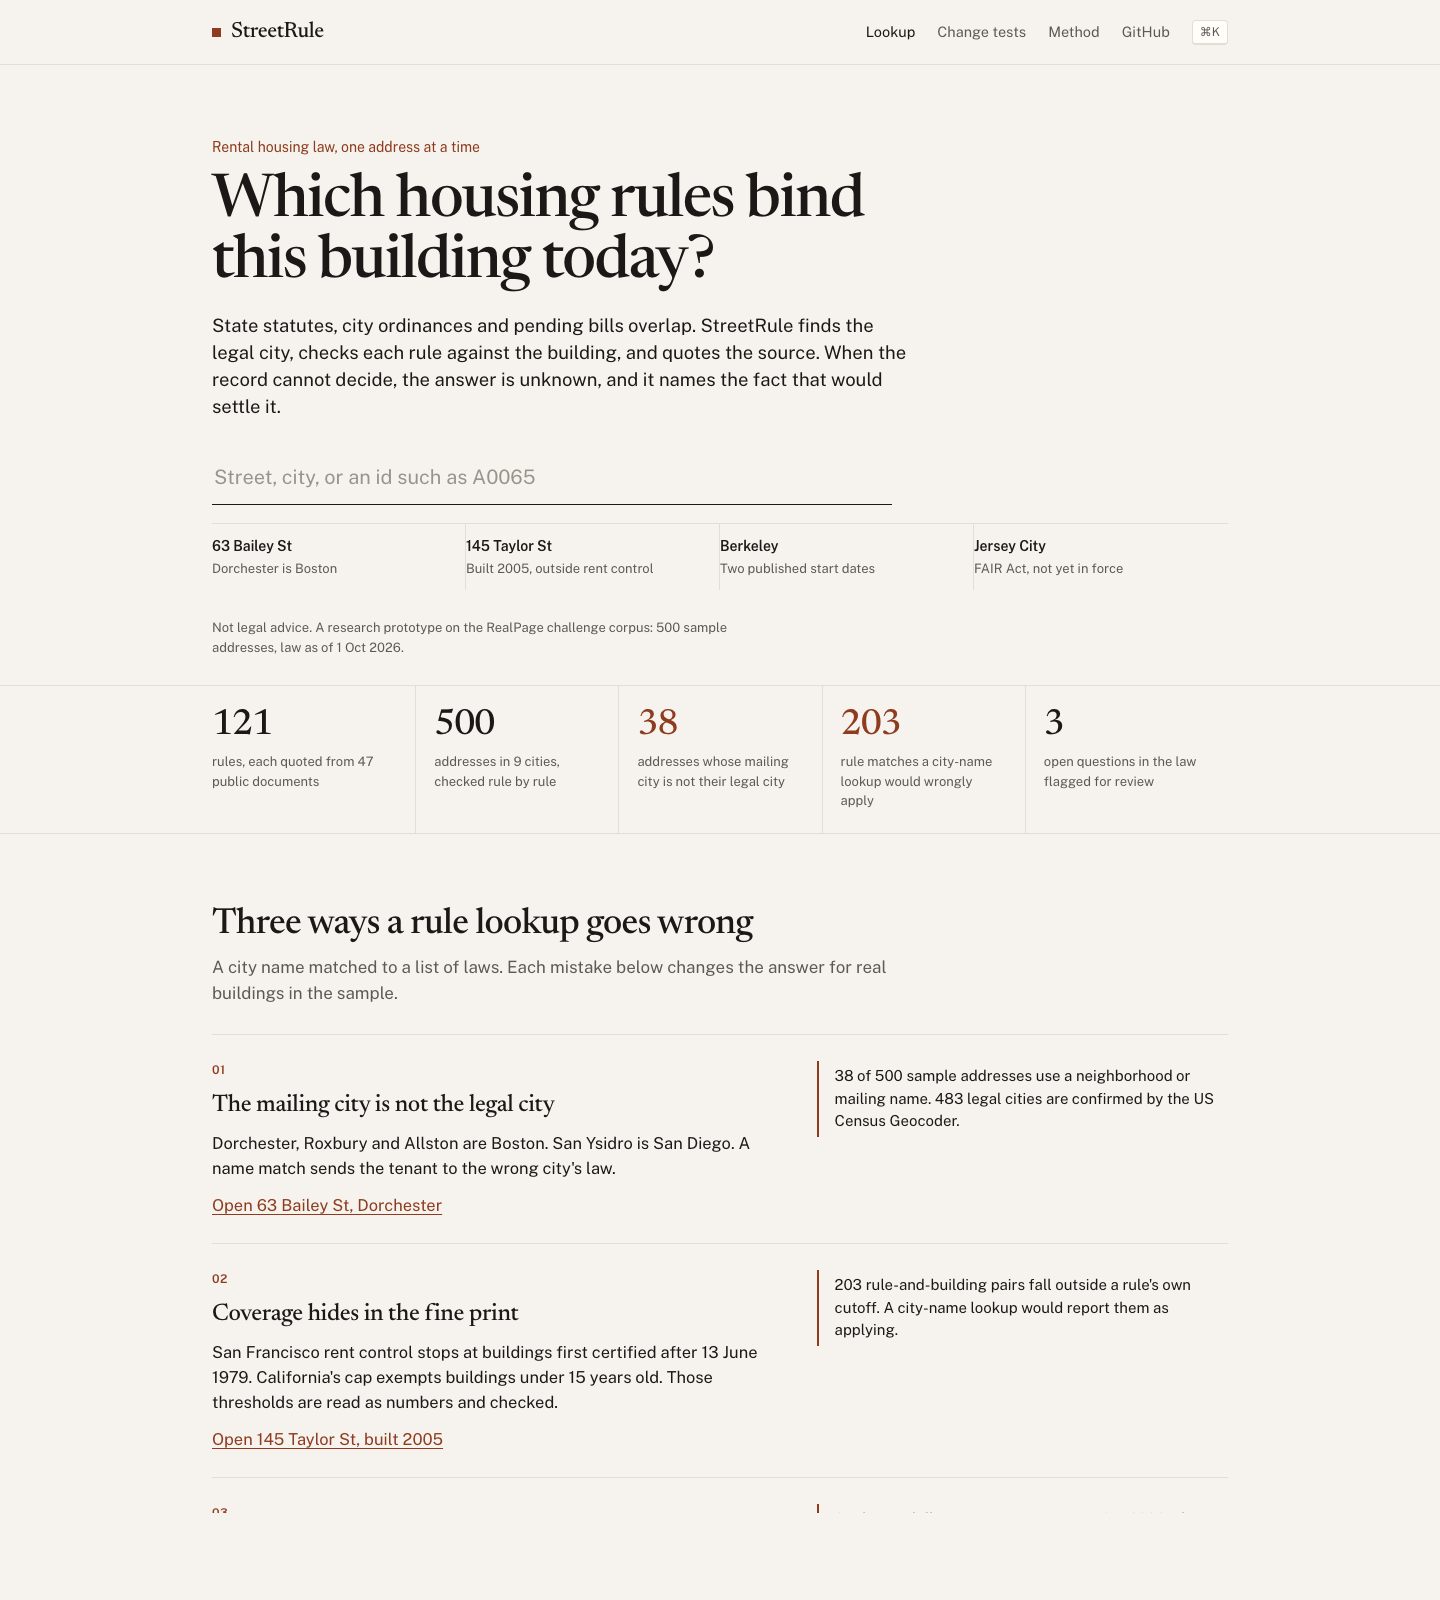
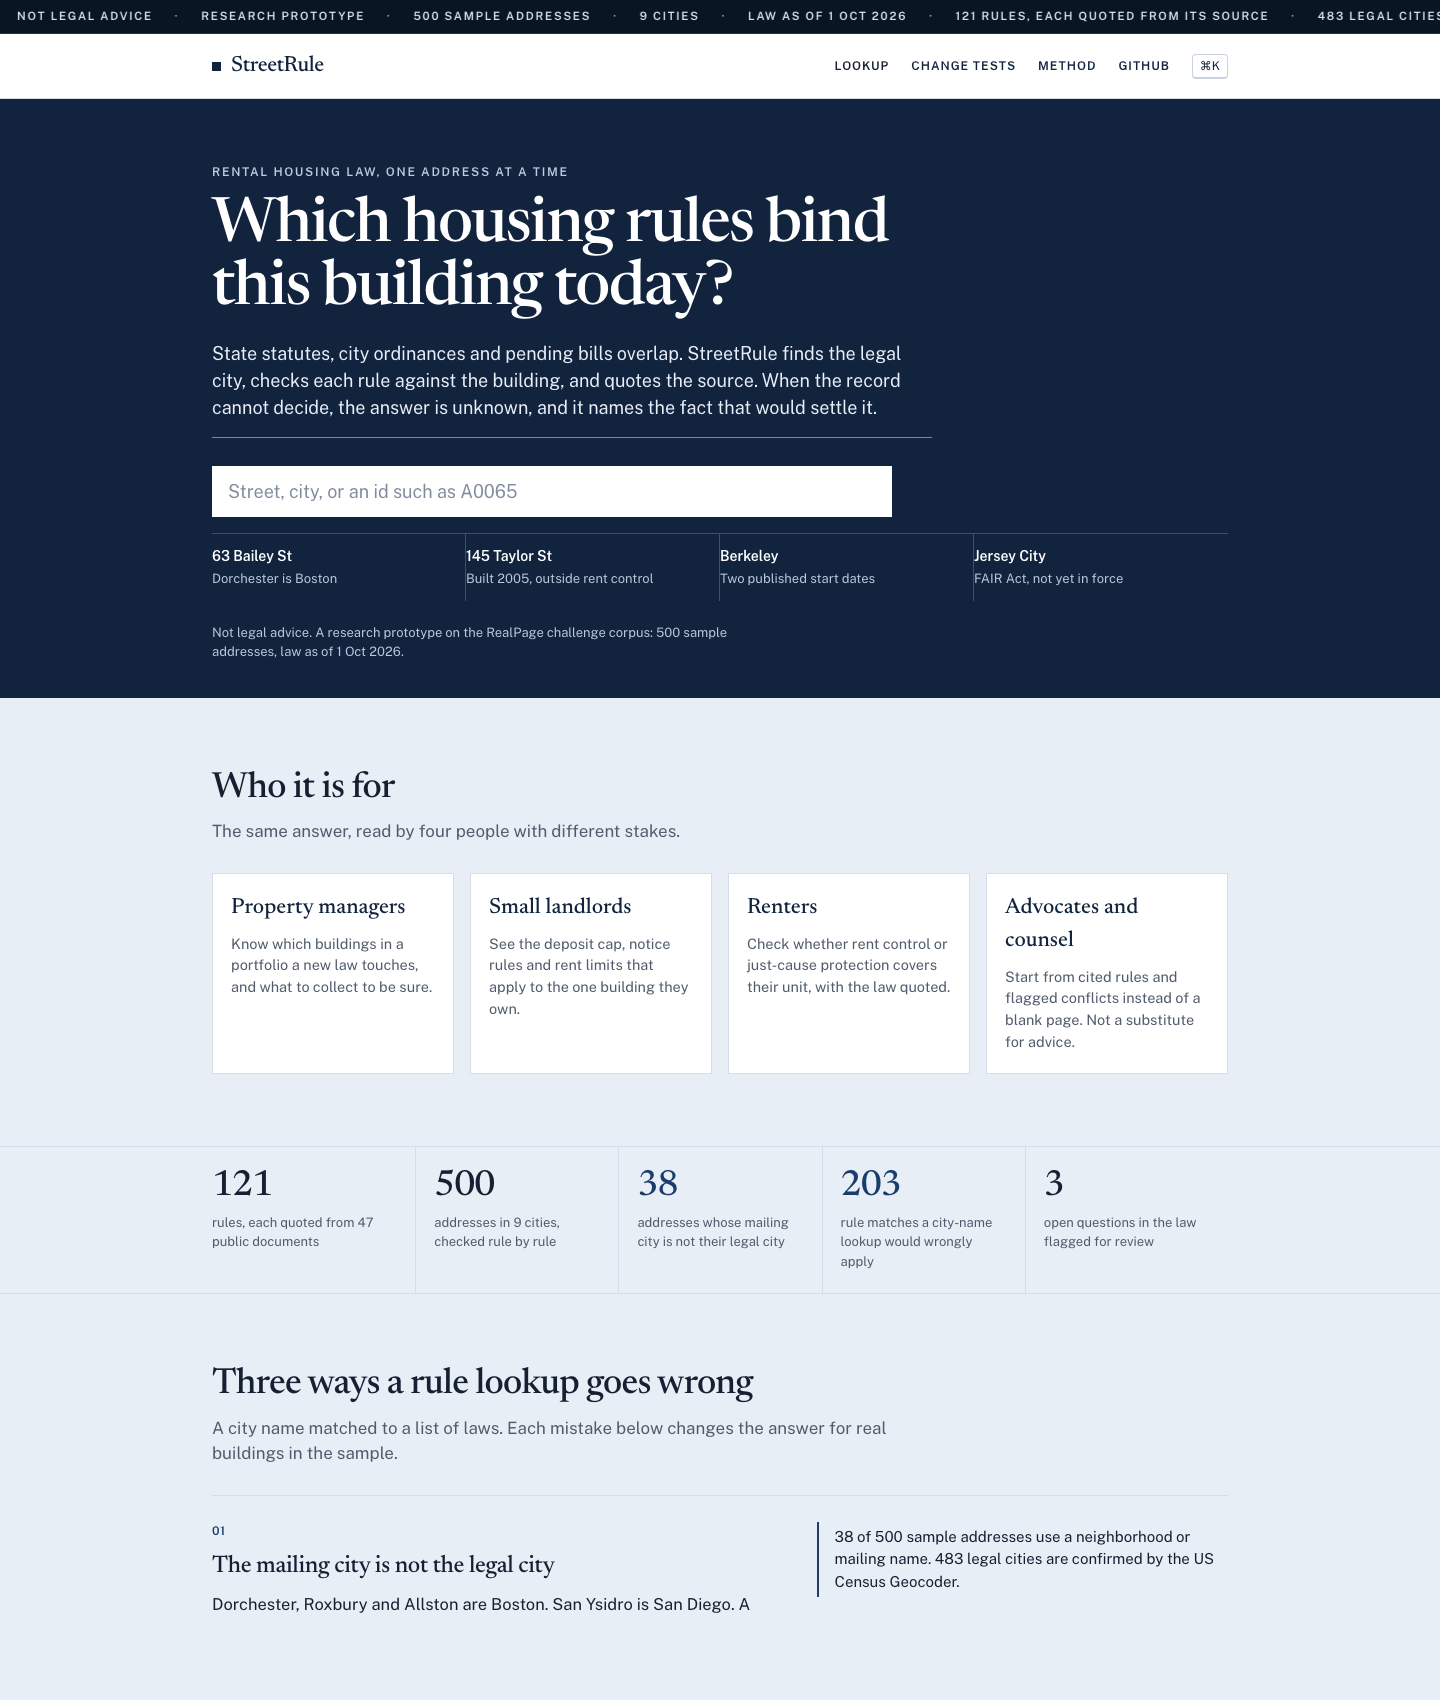
Give the site a civic register and put the audiences under the headline

diff --git a/static/style.css b/static/style.css
@@ -1,10 +1,11 @@
 :root {
-  --ink: #1c1917;
-  --muted: #5f5953;
-  --line: #e4ddd3;
-  --paper: #f6f3ee;
-  --card: #fffcf8;
-  --signal: #9a3412;
+  --ink: #122033;
+  --muted: #4d5c6e;
+  --line: #d3dce8;
+  --paper: #e7eef6;
+  --card: #ffffff;
+  --navy: #0c2340;
+  --signal: #0c3d6e;
   --applies: #1d6b43;
   --unknown: #8a5a10;
   --superseded: #6b6560;
@@ -28,36 +29,44 @@ a { color: var(--signal); text-underline-offset: 3px; }
 .skip { position: absolute; left: 12px; top: -40px; background: var(--ink); color: #fff; padding: 6px 10px; z-index: 20; }
 .skip:focus { top: 12px; }
 
+/* Running line */
+.ticker { background: #071525; color: #d5e2f2; overflow: hidden; white-space: nowrap; border-bottom: 1px solid #1a3354; }
+.ticker-track { display: inline-flex; animation: ticker 48s linear infinite; }
+.ticker:hover .ticker-track { animation-play-state: paused; }
+.ticker span { padding: 8px 0 8px 22px; font-size: 11.5px; font-weight: 600; letter-spacing: .14em; text-transform: uppercase; }
+.ticker span::after { content: "·"; margin-left: 22px; color: #8eafd4; }
+@keyframes ticker { from { transform: translateX(0); } to { transform: translateX(-50%); } }
+
 /* Masthead */
-.top { position: sticky; top: 0; z-index: 10; background: rgba(246, 243, 238, .92); backdrop-filter: saturate(1.2) blur(8px); border-bottom: 1px solid var(--line); }
+.top { position: sticky; top: 0; z-index: 10; background: #fff; border-bottom: 1px solid var(--line); }
 .top .wrap { display: flex; align-items: center; justify-content: space-between; height: 64px; }
-.brand { display: inline-flex; align-items: center; gap: 10px; font-family: var(--serif); font-size: 22px; font-weight: 500; letter-spacing: -.02em; color: var(--ink); text-decoration: none; }
-.mark { width: 9px; height: 9px; background: var(--signal); display: inline-block; flex: none; }
-.top nav { display: flex; align-items: center; gap: 22px; font-size: 14.5px; }
-.top nav a { color: var(--muted); text-decoration: none; }
+.brand { display: inline-flex; align-items: center; gap: 10px; font-family: var(--serif); font-size: 22px; font-weight: 500; letter-spacing: -.02em; color: var(--navy); text-decoration: none; }
+.mark { width: 9px; height: 9px; background: var(--navy); display: inline-block; flex: none; }
+.top nav { display: flex; align-items: center; gap: 22px; }
+.top nav a { color: var(--navy); text-decoration: none; font-size: 12px; font-weight: 600; letter-spacing: .08em; text-transform: uppercase; }
 .top nav a:hover, .top nav a.on { color: var(--ink); }
-button.kbd { font: 12px/1 var(--sans); color: var(--muted); background: var(--card); border: 1px solid var(--line); border-bottom-width: 2px; padding: 5px 7px; border-radius: 4px; cursor: pointer; }
+button.kbd { font: 12px/1 var(--sans); color: var(--navy); background: #fff; border: 1px solid #c5d2e2; border-bottom-width: 2px; padding: 5px 7px; border-radius: 4px; cursor: pointer; }
 
 /* Hero */
-.hero { padding: 72px 0 28px; }
-.eyebrow { margin: 0 0 14px; font-size: 14px; color: var(--signal); }
-.hero h1 { font-family: var(--serif); font-weight: 500; font-size: clamp(40px, 5.4vw, 60px); line-height: 1.02; letter-spacing: -.025em; margin: 0 0 18px; max-width: 11.2em; }
-.hero p.lede { font-size: 18.5px; line-height: 1.45; max-width: 38em; margin: 0 0 32px; color: var(--ink); }
+.hero { background: var(--navy); color: #fff; padding: 64px 0 36px; }
+.eyebrow { margin: 0 0 14px; font-size: 12px; font-weight: 600; letter-spacing: .14em; text-transform: uppercase; color: #b9cbe2; }
+.hero h1 { font-family: var(--serif); font-weight: 500; font-size: clamp(40px, 5.4vw, 62px); line-height: 1.02; letter-spacing: -.025em; margin: 0 0 18px; max-width: 12em; color: #fff; }
+.hero p.lede { font-size: 18px; line-height: 1.5; max-width: 40em; margin: 0 0 28px; padding-bottom: 16px; color: #e7eef8; border-bottom: 1px solid rgba(255, 255, 255, .45); }
 .search { position: relative; max-width: 680px; }
-.search input { width: 100%; font: 500 20px/1.3 var(--sans); padding: 12px 2px 14px; border: 0; border-bottom: 1.5px solid var(--ink); border-radius: 0; background: transparent; color: var(--ink); }
-.search input::placeholder { color: #9a938a; font-weight: 400; }
-.search input:focus { outline: none; border-bottom-color: var(--signal); }
+.search input { width: 100%; font: 500 18px/1.3 var(--sans); padding: 14px 16px; border: 0; border-radius: 0; background: #fff; color: var(--ink); }
+.search input::placeholder { color: #7d8da1; font-weight: 400; }
+.search input:focus { outline: 2px solid #e2c56a; outline-offset: 2px; }
 #matches, #palette-list { position: absolute; left: 0; right: 0; top: calc(100% + 6px); margin: 0; padding: 6px 0; list-style: none; background: var(--card); color: var(--ink); border: 1px solid var(--line); box-shadow: 0 16px 40px rgba(28, 25, 23, .1); max-height: 320px; overflow: auto; z-index: 6; }
 #matches li, #palette-list li { padding: 9px 14px; cursor: pointer; font-size: 15px; }
-#matches li:hover, #matches li.active, #palette-list li:hover, #palette-list li.active { background: #f3ece4; }
+#matches li:hover, #matches li.active, #palette-list li:hover, #palette-list li.active { background: #e7eef6; }
 #matches:empty { display: none; }
-.examples { display: grid; grid-template-columns: repeat(4, minmax(0, 1fr)); gap: 0; margin-top: 18px; border-top: 1px solid var(--line); }
-.examples button { min-width: 0; text-align: left; background: none; border: 0; border-right: 1px solid var(--line); padding: 12px 14px 12px 0; cursor: pointer; font: inherit; color: inherit; }
+.examples { display: grid; grid-template-columns: repeat(4, minmax(0, 1fr)); gap: 0; margin-top: 16px; border-top: 1px solid rgba(255, 255, 255, .2); }
+.examples button { min-width: 0; text-align: left; background: none; border: 0; border-right: 1px solid rgba(255, 255, 255, .2); padding: 12px 14px 12px 0; cursor: pointer; font: inherit; color: #fff; }
 .examples button:last-child { border-right: 0; }
-.examples button:hover b { color: var(--signal); }
+.examples button:hover b { color: #e2c56a; }
 .examples b { display: block; font-weight: 600; font-size: 14px; }
-.examples span { display: block; color: var(--muted); font-size: 13px; margin-top: 2px; }
-.disclaimer { margin: 28px 0 0; font-size: 13px; color: var(--muted); max-width: 42em; }
+.examples span { display: block; color: #b7c7dc; font-size: 13px; margin-top: 2px; }
+.disclaimer { margin: 22px 0 0; font-size: 13px; color: #b7c7dc; max-width: 42em; }
 
 /* Figures */
 .strip { border-top: 1px solid var(--line); border-bottom: 1px solid var(--line); }
@@ -94,8 +103,10 @@ section.block p.sub { color: var(--muted); max-width: 40em; margin: 0 0 28px; fo
 .steps article::before { content: counter(step, decimal-leading-zero); display: block; font-size: 12px; font-weight: 600; color: var(--signal); margin-bottom: 10px; }
 .steps h3 { font-family: var(--serif); font-weight: 500; font-size: 20px; margin: 0 0 6px; }
 .steps p { font-size: 14.5px; color: var(--muted); margin: 0; }
-.who { display: grid; grid-template-columns: repeat(4, minmax(0, 1fr)); gap: 28px; }
-.who h3 { font-family: var(--serif); font-weight: 500; font-size: 20px; margin: 0 0 6px; }
+.who-block { padding-top: 48px; padding-bottom: 56px; }
+.who { display: grid; grid-template-columns: repeat(4, minmax(0, 1fr)); gap: 16px; }
+.who article { background: #fff; border: 1px solid #d5deea; padding: 18px 18px 20px; min-width: 0; }
+.who h3 { font-family: var(--serif); font-weight: 500; font-size: 22px; margin: 0 0 8px; color: var(--navy); }
 .who p { font-size: 14.5px; color: var(--muted); margin: 0; }
 
 footer { border-top: 1px solid var(--line); padding: 28px 0 48px; color: var(--muted); font-size: 13px; }
@@ -232,11 +243,11 @@ table.ledger td:first-child { font-weight: 500; }
 .plain-list { color: var(--ink); max-width: 44em; padding-left: 18px; }
 .plain-list li { margin: 8px 0; }
 
-body.reporting .hero { padding: 0; border-bottom: 1px solid var(--line); }
-body.reporting .hero .wrap { padding-top: 12px; padding-bottom: 12px; }
+body.reporting .hero { padding: 0; }
+body.reporting .hero .wrap { padding-top: 14px; padding-bottom: 14px; }
 body.reporting .hero .eyebrow, body.reporting .hero h1, body.reporting .hero .lede, body.reporting .hero .examples, body.reporting .hero .disclaimer { display: none; }
 body.reporting .search { max-width: none; }
-body.reporting .search input { font-size: 16px; padding: 8px 2px; }
+body.reporting .search input { font-size: 16px; padding: 10px 14px; }
 
 @media (max-width: 860px) {
   .wrap { padding: 0 20px; }
@@ -255,15 +266,16 @@ body.reporting .search input { font-size: 16px; padding: 8px 2px; }
   .test { grid-template-columns: 1fr; }
   .top nav { gap: 12px; }
   .copy { margin-left: 0; }
-  .examples button { border-right: 0; border-bottom: 1px solid var(--line); padding-right: 0; }
+  .examples button { border-right: 0; border-bottom: 1px solid rgba(255, 255, 255, .2); padding-right: 0; }
 }
 
 @media print {
-  .top, .hero, aside.facts, .toolbar, footer, .palette, .back, .counts { display: none !important; }
+  .ticker, .top, .hero, aside.facts, .toolbar, footer, .palette, .back, .counts { display: none !important; }
   body, .card { background: #fff; }
   .card { break-inside: avoid; }
 }
 
 @media (prefers-reduced-motion: reduce) {
   .toast { transition: none; }
+  .ticker-track { animation: none; }
 }

diff --git a/static/index.html b/static/index.html
@@ -5,7 +5,7 @@
   <meta name="viewport" content="width=device-width, initial-scale=1">
   <title>StreetRule · Which housing rules bind this building today</title>
   <meta name="description" content="Address-level rental housing law: state statutes, city ordinances and pending bills, each quoted from its source, with unknown when the public record cannot decide.">
-  <meta name="theme-color" content="#f6f3ee">
+  <meta name="theme-color" content="#0c2340">
   <link rel="icon" href="/static/favicon.svg" type="image/svg+xml">
   <link rel="preconnect" href="https://fonts.googleapis.com">
   <link rel="preconnect" href="https://fonts.gstatic.com" crossorigin>
@@ -14,6 +14,7 @@
 </head>
 <body>
   <a class="skip" href="#report">Skip to the answer</a>
+  <div class="ticker" aria-hidden="true"><div class="ticker-track"><span>Not legal advice</span><span>Research prototype</span><span>500 sample addresses</span><span>9 cities</span><span>Law as of 1 Oct 2026</span><span>121 rules, each quoted from its source</span><span>483 legal cities confirmed by the US Census</span><span>Unknown when the record cannot decide</span><span>Not legal advice</span><span>Research prototype</span><span>500 sample addresses</span><span>9 cities</span><span>Law as of 1 Oct 2026</span><span>121 rules, each quoted from its source</span><span>483 legal cities confirmed by the US Census</span><span>Unknown when the record cannot decide</span></div></div>
   <header class="top">
     <div class="wrap">
       <a class="brand" href="/"><span class="mark" aria-hidden="true"></span>StreetRule</a>
@@ -48,6 +49,19 @@
   </section>
 
   <div id="landing">
+    <section class="block who-block">
+      <div class="wrap">
+        <h2>Who it is for</h2>
+        <p class="sub">The same answer, read by four people with different stakes.</p>
+        <div class="who">
+          <article><h3>Property managers</h3><p>Know which buildings in a portfolio a new law touches, and what to collect to be sure.</p></article>
+          <article><h3>Small landlords</h3><p>See the deposit cap, notice rules and rent limits that apply to the one building they own.</p></article>
+          <article><h3>Renters</h3><p>Check whether rent control or just-cause protection covers their unit, with the law quoted.</p></article>
+          <article><h3>Advocates and counsel</h3><p>Start from cited rules and flagged conflicts instead of a blank page. Not a substitute for advice.</p></article>
+        </div>
+      </div>
+    </section>
+
     <div class="strip">
       <div class="wrap" id="stats"></div>
     </div>
@@ -117,18 +131,6 @@
       </div>
     </section>
 
-    <section class="block">
-      <div class="wrap">
-        <h2>Who it is for</h2>
-        <p class="sub">The same answer, read by four people with different stakes.</p>
-        <div class="who">
-          <article><h3>Property managers</h3><p>Know which buildings in a portfolio a new law touches, and what to collect to be sure.</p></article>
-          <article><h3>Small landlords</h3><p>See the deposit cap, notice rules and rent limits that apply to the one building they own.</p></article>
-          <article><h3>Renters</h3><p>Check whether rent control or just-cause protection covers their unit, with the law quoted.</p></article>
-          <article><h3>Advocates and counsel</h3><p>Start from cited rules and flagged conflicts instead of a blank page. Not a substitute for advice.</p></article>
-        </div>
-      </div>
-    </section>
   </div>
 
   <main id="report" class="hidden">

diff --git a/static/method.html b/static/method.html
@@ -4,7 +4,7 @@
   <meta charset="utf-8">
   <meta name="viewport" content="width=device-width, initial-scale=1">
   <title>StreetRule · Method and evidence</title>
-  <meta name="theme-color" content="#f6f3ee">
+  <meta name="theme-color" content="#0c2340">
   <link rel="icon" href="/static/favicon.svg" type="image/svg+xml">
   <link rel="preconnect" href="https://fonts.googleapis.com">
   <link rel="preconnect" href="https://fonts.gstatic.com" crossorigin>
@@ -12,6 +12,7 @@
   <link rel="stylesheet" href="/static/style.css">
 </head>
 <body>
+  <div class="ticker" aria-hidden="true"><div class="ticker-track"><span>Not legal advice</span><span>Research prototype</span><span>500 sample addresses</span><span>9 cities</span><span>Law as of 1 Oct 2026</span><span>121 rules, each quoted from its source</span><span>483 legal cities confirmed by the US Census</span><span>Unknown when the record cannot decide</span><span>Not legal advice</span><span>Research prototype</span><span>500 sample addresses</span><span>9 cities</span><span>Law as of 1 Oct 2026</span><span>121 rules, each quoted from its source</span><span>483 legal cities confirmed by the US Census</span><span>Unknown when the record cannot decide</span></div></div>
   <header class="top">
     <div class="wrap">
       <a class="brand" href="/"><span class="mark" aria-hidden="true"></span>StreetRule</a>

diff --git a/static/changes.html b/static/changes.html
@@ -4,7 +4,7 @@
   <meta charset="utf-8">
   <meta name="viewport" content="width=device-width, initial-scale=1">
   <title>StreetRule · Change tests</title>
-  <meta name="theme-color" content="#f6f3ee">
+  <meta name="theme-color" content="#0c2340">
   <link rel="icon" href="/static/favicon.svg" type="image/svg+xml">
   <link rel="preconnect" href="https://fonts.googleapis.com">
   <link rel="preconnect" href="https://fonts.gstatic.com" crossorigin>
@@ -12,6 +12,7 @@
   <link rel="stylesheet" href="/static/style.css">
 </head>
 <body>
+  <div class="ticker" aria-hidden="true"><div class="ticker-track"><span>Not legal advice</span><span>Research prototype</span><span>500 sample addresses</span><span>9 cities</span><span>Law as of 1 Oct 2026</span><span>121 rules, each quoted from its source</span><span>483 legal cities confirmed by the US Census</span><span>Unknown when the record cannot decide</span><span>Not legal advice</span><span>Research prototype</span><span>500 sample addresses</span><span>9 cities</span><span>Law as of 1 Oct 2026</span><span>121 rules, each quoted from its source</span><span>483 legal cities confirmed by the US Census</span><span>Unknown when the record cannot decide</span></div></div>
   <header class="top">
     <div class="wrap">
       <a class="brand" href="/"><span class="mark" aria-hidden="true"></span>StreetRule</a>
